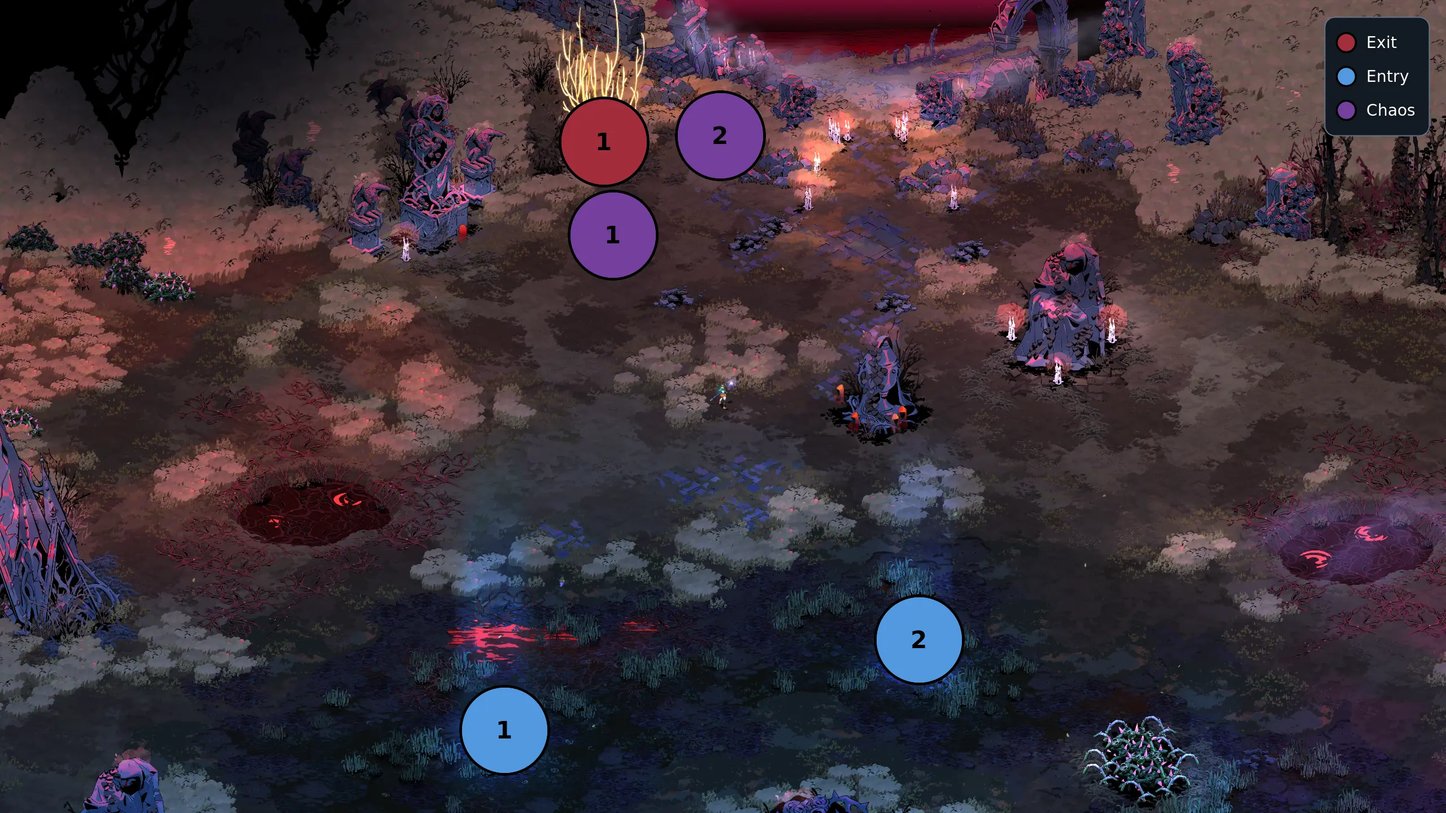
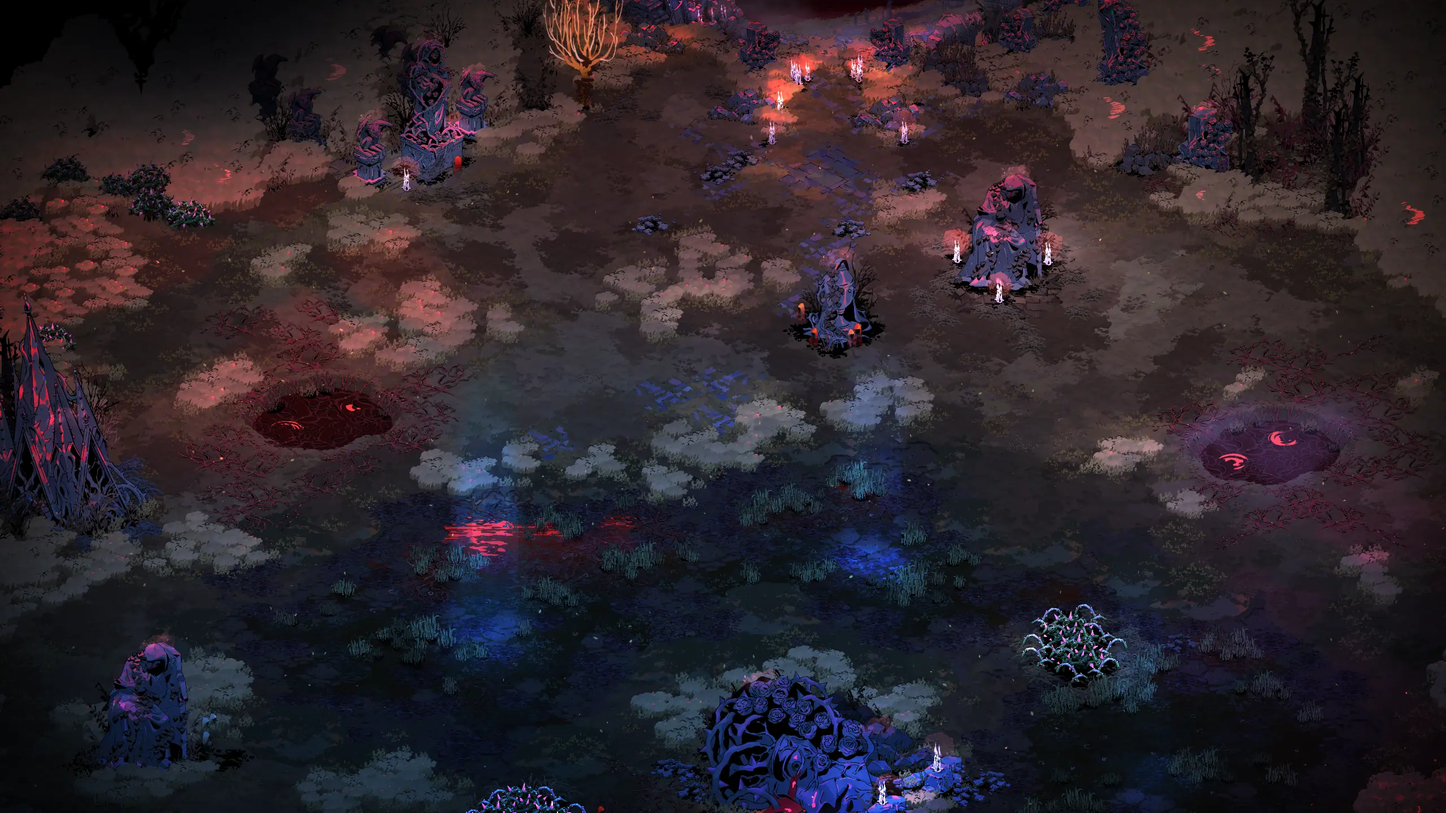
feat(planner): room maps for H with stitched captures, and recaptured B_Combat08, I_PreBoss02, Q_Combat05 and Q_Combat16

diff --git a/apps/planner/src/ui/room-maps/roomMapCalibration.ts b/apps/planner/src/ui/room-maps/roomMapCalibration.ts
@@ -8,7 +8,7 @@ export const roomMapCalibrations: Readonly<Record<string, RoomMapCalibration>> =
   B_Combat05: { width: 2560, height: 1440, targetX: 4200.7627, targetY: 7331.9834, scale: 0.6667 },
   B_Combat06: { width: 2560, height: 1440, targetX: 4204.6924, targetY: 6820.9863, scale: 0.6 },
   B_Combat07: { width: 2560, height: 1440, targetX: 4787.019, targetY: 7627.8125, scale: 0.5333 },
-  B_Combat08: { width: 2560, height: 1440, targetX: 6109.6133, targetY: 7053.5981, scale: 0.5333 },
+  B_Combat08: { width: 2560, height: 1440, targetX: 5881.6133, targetY: 6831.5981, scale: 0.4267 },
   B_Combat10: { width: 2560, height: 1440, targetX: 7694.5854, targetY: 8321.291, scale: 0.8667 },
   B_Combat21: { width: 2560, height: 1440, targetX: 4151.0801, targetY: 7550.9844, scale: 0.4667 },
   C_Boss01: { width: 2560, height: 1440, targetX: 6089.4077, targetY: 9132.502, scale: 0.7333 },
@@ -189,6 +189,59 @@ export const roomMapCalibrations: Readonly<Record<string, RoomMapCalibration>> =
   },
   G_Shop01: { width: 2560, height: 1440, targetX: 6843.4805, targetY: 8456.626, scale: 0.8 },
   G_Story01: { width: 2560, height: 1440, targetX: 9019.6709, targetY: 10843.0557, scale: 0.6 },
+  H_Boss01: { width: 2560, height: 1440, targetX: 6608.2031, targetY: 9377.4092, scale: 0.4 },
+  H_Boss02: { width: 2560, height: 1440, targetX: 12077.2637, targetY: 9026.6064, scale: 0.4667 },
+  H_Bridge01: { width: 2560, height: 1440, targetX: 14904.8281, targetY: 8603.5283, scale: 0.2667 },
+  H_Combat01: { width: 2560, height: 1440, targetX: 8947.3105, targetY: 7910.3506, scale: 0.1798 },
+  H_Combat02: { width: 2560, height: 1440, targetX: 14104.4258, targetY: 8994.8125, scale: 0.2533 },
+  H_Combat03: { width: 2560, height: 1440, targetX: 9697.6445, targetY: 7796.3872, scale: 0.2533 },
+  H_Combat04: { width: 2560, height: 1440, targetX: 7948.9673, targetY: 8292.9932, scale: 0.1721 },
+  H_Combat05: { width: 2560, height: 1440, targetX: 14695.5375, targetY: 8686.372, scale: 0.144 },
+  H_Combat06: { width: 2560, height: 1440, targetX: 8872.7863, targetY: 6455.4336, scale: 0.1807 },
+  H_Combat07: { width: 2560, height: 1440, targetX: 12619.0371, targetY: 7194.1533, scale: 0.2267 },
+  H_Combat08: { width: 2560, height: 1440, targetX: 12009.6807, targetY: 7292.3154, scale: 0.2533 },
+  H_Combat09: { width: 2560, height: 1440, targetX: 13139.3477, targetY: 9095.6309, scale: 0.3467 },
+  H_Combat10: {
+    width: 2560,
+    height: 1440,
+    targetX: 21768.4727,
+    targetY: 15450.4395,
+    scale: 0.2133,
+  },
+  H_Combat11: {
+    width: 2560,
+    height: 1440,
+    targetX: 16761.4297,
+    targetY: 14688.5449,
+    scale: 0.2267,
+  },
+  H_Combat12: { width: 2560, height: 1440, targetX: 18353.1191, targetY: 24002.9492, scale: 0.24 },
+  H_Combat13: { width: 2560, height: 1440, targetX: 12728.1719, targetY: 7647.6353, scale: 0.2667 },
+  H_Combat14: { width: 2560, height: 1440, targetX: 12436.0781, targetY: 7356.4961, scale: 0.2667 },
+  H_Combat15: { width: 2560, height: 1440, targetX: 13293.5195, targetY: 8242.4307, scale: 0.4667 },
+  H_Intro: { width: 2560, height: 1440, targetX: 16533.5938, targetY: 12191.7002, scale: 0.2667 },
+  H_MiniBoss01: {
+    width: 2560,
+    height: 1440,
+    targetX: 11088.1816,
+    targetY: 8097.6338,
+    scale: 0.4667,
+  },
+  H_MiniBoss02: {
+    width: 2560,
+    height: 1440,
+    targetX: 12159.9131,
+    targetY: 8175.707,
+    scale: 0.4667,
+  },
+  H_PostBoss01: { width: 2560, height: 1440, targetX: 6105.085, targetY: 4143.3643, scale: 0.8 },
+  H_PreBoss01: {
+    width: 2560,
+    height: 1440,
+    targetX: 8785.2432,
+    targetY: 15429.9707,
+    scale: 0.5333,
+  },
   I_Boss01: { width: 2560, height: 1440, targetX: 3958.2288, targetY: 4173.9873, scale: 0.6 },
   I_Combat01: { width: 2560, height: 1440, targetX: 5877.7217, targetY: 8767.0059, scale: 0.4667 },
   I_Combat02: { width: 2560, height: 1440, targetX: 6278.1338, targetY: 4141.6616, scale: 0.6667 },
@@ -242,7 +295,7 @@ export const roomMapCalibrations: Readonly<Record<string, RoomMapCalibration>> =
   I_MiniBoss01: { width: 2560, height: 1440, targetX: 7316.4966, targetY: 9411.7168, scale: 0.6 },
   I_MiniBoss02: { width: 2560, height: 1440, targetX: 7923.6846, targetY: 9651.0449, scale: 0.6 },
   I_PreBoss01: { width: 2560, height: 1440, targetX: 3354.366, targetY: 4794.4185, scale: 0.6667 },
-  I_PreBoss02: { width: 2560, height: 1440, targetX: 3354.366, targetY: 4794.4185, scale: 0.6667 },
+  I_PreBoss02: { width: 2560, height: 1440, targetX: 3726.366, targetY: 4672.4185, scale: 0.56 },
   I_Reprieve01: { width: 2560, height: 1440, targetX: 5736.856, targetY: 3685.2573, scale: 0.5333 },
   I_Story01: { width: 2560, height: 1440, targetX: 5454.7168, targetY: 5383.8901, scale: 0.7333 },
   P_Boss01: { width: 2560, height: 1440, targetX: 7720.0972, targetY: 8655.2109, scale: 0.8 },
@@ -291,7 +344,7 @@ export const roomMapCalibrations: Readonly<Record<string, RoomMapCalibration>> =
   Q_Combat02: { width: 2560, height: 1440, targetX: 5353.4072, targetY: 8782.7949, scale: 0.9333 },
   Q_Combat03: { width: 2560, height: 1440, targetX: 5610.4629, targetY: 8680.8145, scale: 0.8667 },
   Q_Combat04: { width: 2560, height: 1440, targetX: 5418.2173, targetY: 8906.0352, scale: 0.8667 },
-  Q_Combat05: { width: 2560, height: 1440, targetX: 5690.1113, targetY: 8558.6992, scale: 1.0667 },
+  Q_Combat05: { width: 2560, height: 1440, targetX: 5962.1113, targetY: 8536.6992, scale: 0.6933 },
   Q_Combat06: { width: 2560, height: 1440, targetX: 5719.521, targetY: 8683.71, scale: 0.8667 },
   Q_Combat07: { width: 2560, height: 1440, targetX: 6106.3345, targetY: 9014.8848, scale: 1 },
   Q_Combat08: { width: 2560, height: 1440, targetX: 5648.8389, targetY: 8830.2422, scale: 0.9333 },
@@ -302,7 +355,7 @@ export const roomMapCalibrations: Readonly<Record<string, RoomMapCalibration>> =
   Q_Combat13: { width: 2560, height: 1440, targetX: 4748.3057, targetY: 8843.2461, scale: 0.8 },
   Q_Combat14: { width: 2560, height: 1440, targetX: 5778.5425, targetY: 9430.5303, scale: 0.8 },
   Q_Combat15: { width: 2560, height: 1440, targetX: 6062.7559, targetY: 9186.1016, scale: 0.8 },
-  Q_Combat16: { width: 2560, height: 1440, targetX: 3555.9666, targetY: 9238.04, scale: 0.8 },
+  Q_Combat16: { width: 2560, height: 1440, targetX: 3727.9666, targetY: 9216.04, scale: 0.6933 },
   Q_Intro: { width: 2560, height: 1440, targetX: 2149.6377, targetY: 10713.2598, scale: 0.3333 },
   Q_MiniBoss02: { width: 2560, height: 1440, targetX: 6092.2295, targetY: 8271.251, scale: 0.7333 },
   Q_MiniBoss03: {

diff --git a/apps/planner/test/support/gallery/cases.ts b/apps/planner/test/support/gallery/cases.ts
@@ -714,6 +714,51 @@ export const galleryCases: readonly GalleryCase[] = [
     target: room('H', 'golden-h-combat05'),
   },
   {
+    id: 'room-map-h-fields-flipped',
+    overview: true,
+    label: 'H Fields room entered at the entry that flips it: cages mirrored with the map',
+    shows: ['flipped map', 'cage and reward occupants'],
+    project: createGoldenFGHIProject,
+    commands: [
+      (project) => {
+        const occurrence = occurrenceAddress(project, 'H', 'golden-h-combat02');
+        const entry = roomLayoutAuthoringForProjectEvaluationAssembly(
+          simulateProjectAssembly(catalog, project),
+          occurrence,
+        )?.entries.find((choice) => choice.option.flipped === true);
+        if (entry === undefined) throw new Error('golden-h-combat02 has no entry that flips it');
+        return entry.command;
+      },
+    ],
+    target: room('H', 'golden-h-combat02'),
+  },
+  {
+    id: 'room-map-h-postboss-pinned',
+    overview: true,
+    label: 'H Postboss: the Well on its pinned spot, the Pool on the spot it leaves',
+    shows: ['pinned Well chip', 'derived Pool chip', 'occupants on the map'],
+    project: createGoldenFGHIProject,
+    target: room('H', 'golden-h-preboss-shop:postboss'),
+  },
+  {
+    id: 'room-map-q-combat05',
+    overview: true,
+    label: 'Q Combat05 beside its map',
+    shows: ['room map', 'doors', 'entries', 'anchors'],
+    project: loadSurfaceNOPQCheckpoint,
+    commands: [
+      {
+        kind: 'ReplaceOccurrenceRoom',
+        occurrence: createOccurrenceAddress(
+          createBiomeAddress('Surface', 'Q'),
+          createOccurrenceId('surface-q-ordinary'),
+        ),
+        gameName: 'Q_Combat05',
+      },
+    ],
+    target: room('Q', 'surface-q-ordinary'),
+  },
+  {
     id: 'eris',
     label: 'Eris spawned in an entrance',
     shows: ['Eris'],

diff --git a/apps/planner/test/ui/room-maps/roomMapAssets.test.ts b/apps/planner/test/ui/room-maps/roomMapAssets.test.ts
@@ -42,4 +42,13 @@ describe('room map assets', () => {
       );
     }
   });
+
+  it('calibrates every Fields room so its cage and reward points show on its map', () => {
+    const fields = catalog.rooms.values.filter(
+      (room) => (room.mapPoints?.fieldsCagePoints?.length ?? 0) > 0,
+    );
+    expect(fields.length).toBeGreaterThan(0);
+    for (const room of fields)
+      expect(roomMapCalibrations[room.gameName], room.gameName).toBeDefined();
+  });
 });

diff --git a/apps/planner/src/ui/room-maps/README.md b/apps/planner/src/ui/room-maps/README.md
@@ -24,11 +24,16 @@ WebPs unless replacing them from a source image. For example:
 convert source.png -quality 90 -define webp:method=6 -define webp:lossless=false RoomName.webp
 ```
 
-F, G, I, P, Q, the `B_Combat` anomalies and the `Special/` rooms are clean
+F, G, H, I, P, Q, the `B_Combat` anomalies and the `Special/` rooms are clean
 captures: `roomMapCalibration.ts` records each image's capture camera and the
 editor draws their points from the catalog's map points. Regenerate it from the
 capture manifests with `npm run planner:room-map-calibration` whenever one of
 those images is replaced; an image without calibration shows no points.
+
+A room too large for one screen is stitched from tiles; its manifest entry
+carries the stitched image's own calibration. Package it at most 2560 wide
+(`-resize '2560x1440>'` before the WebP options above); the script scales its
+calibration to match.
 
 On the remaining maps, annotations are baked into the image. Fields annotations
 identify Entry, Cage, Optional, and Exit positions. Stitch split captures and verify the full room's markers
